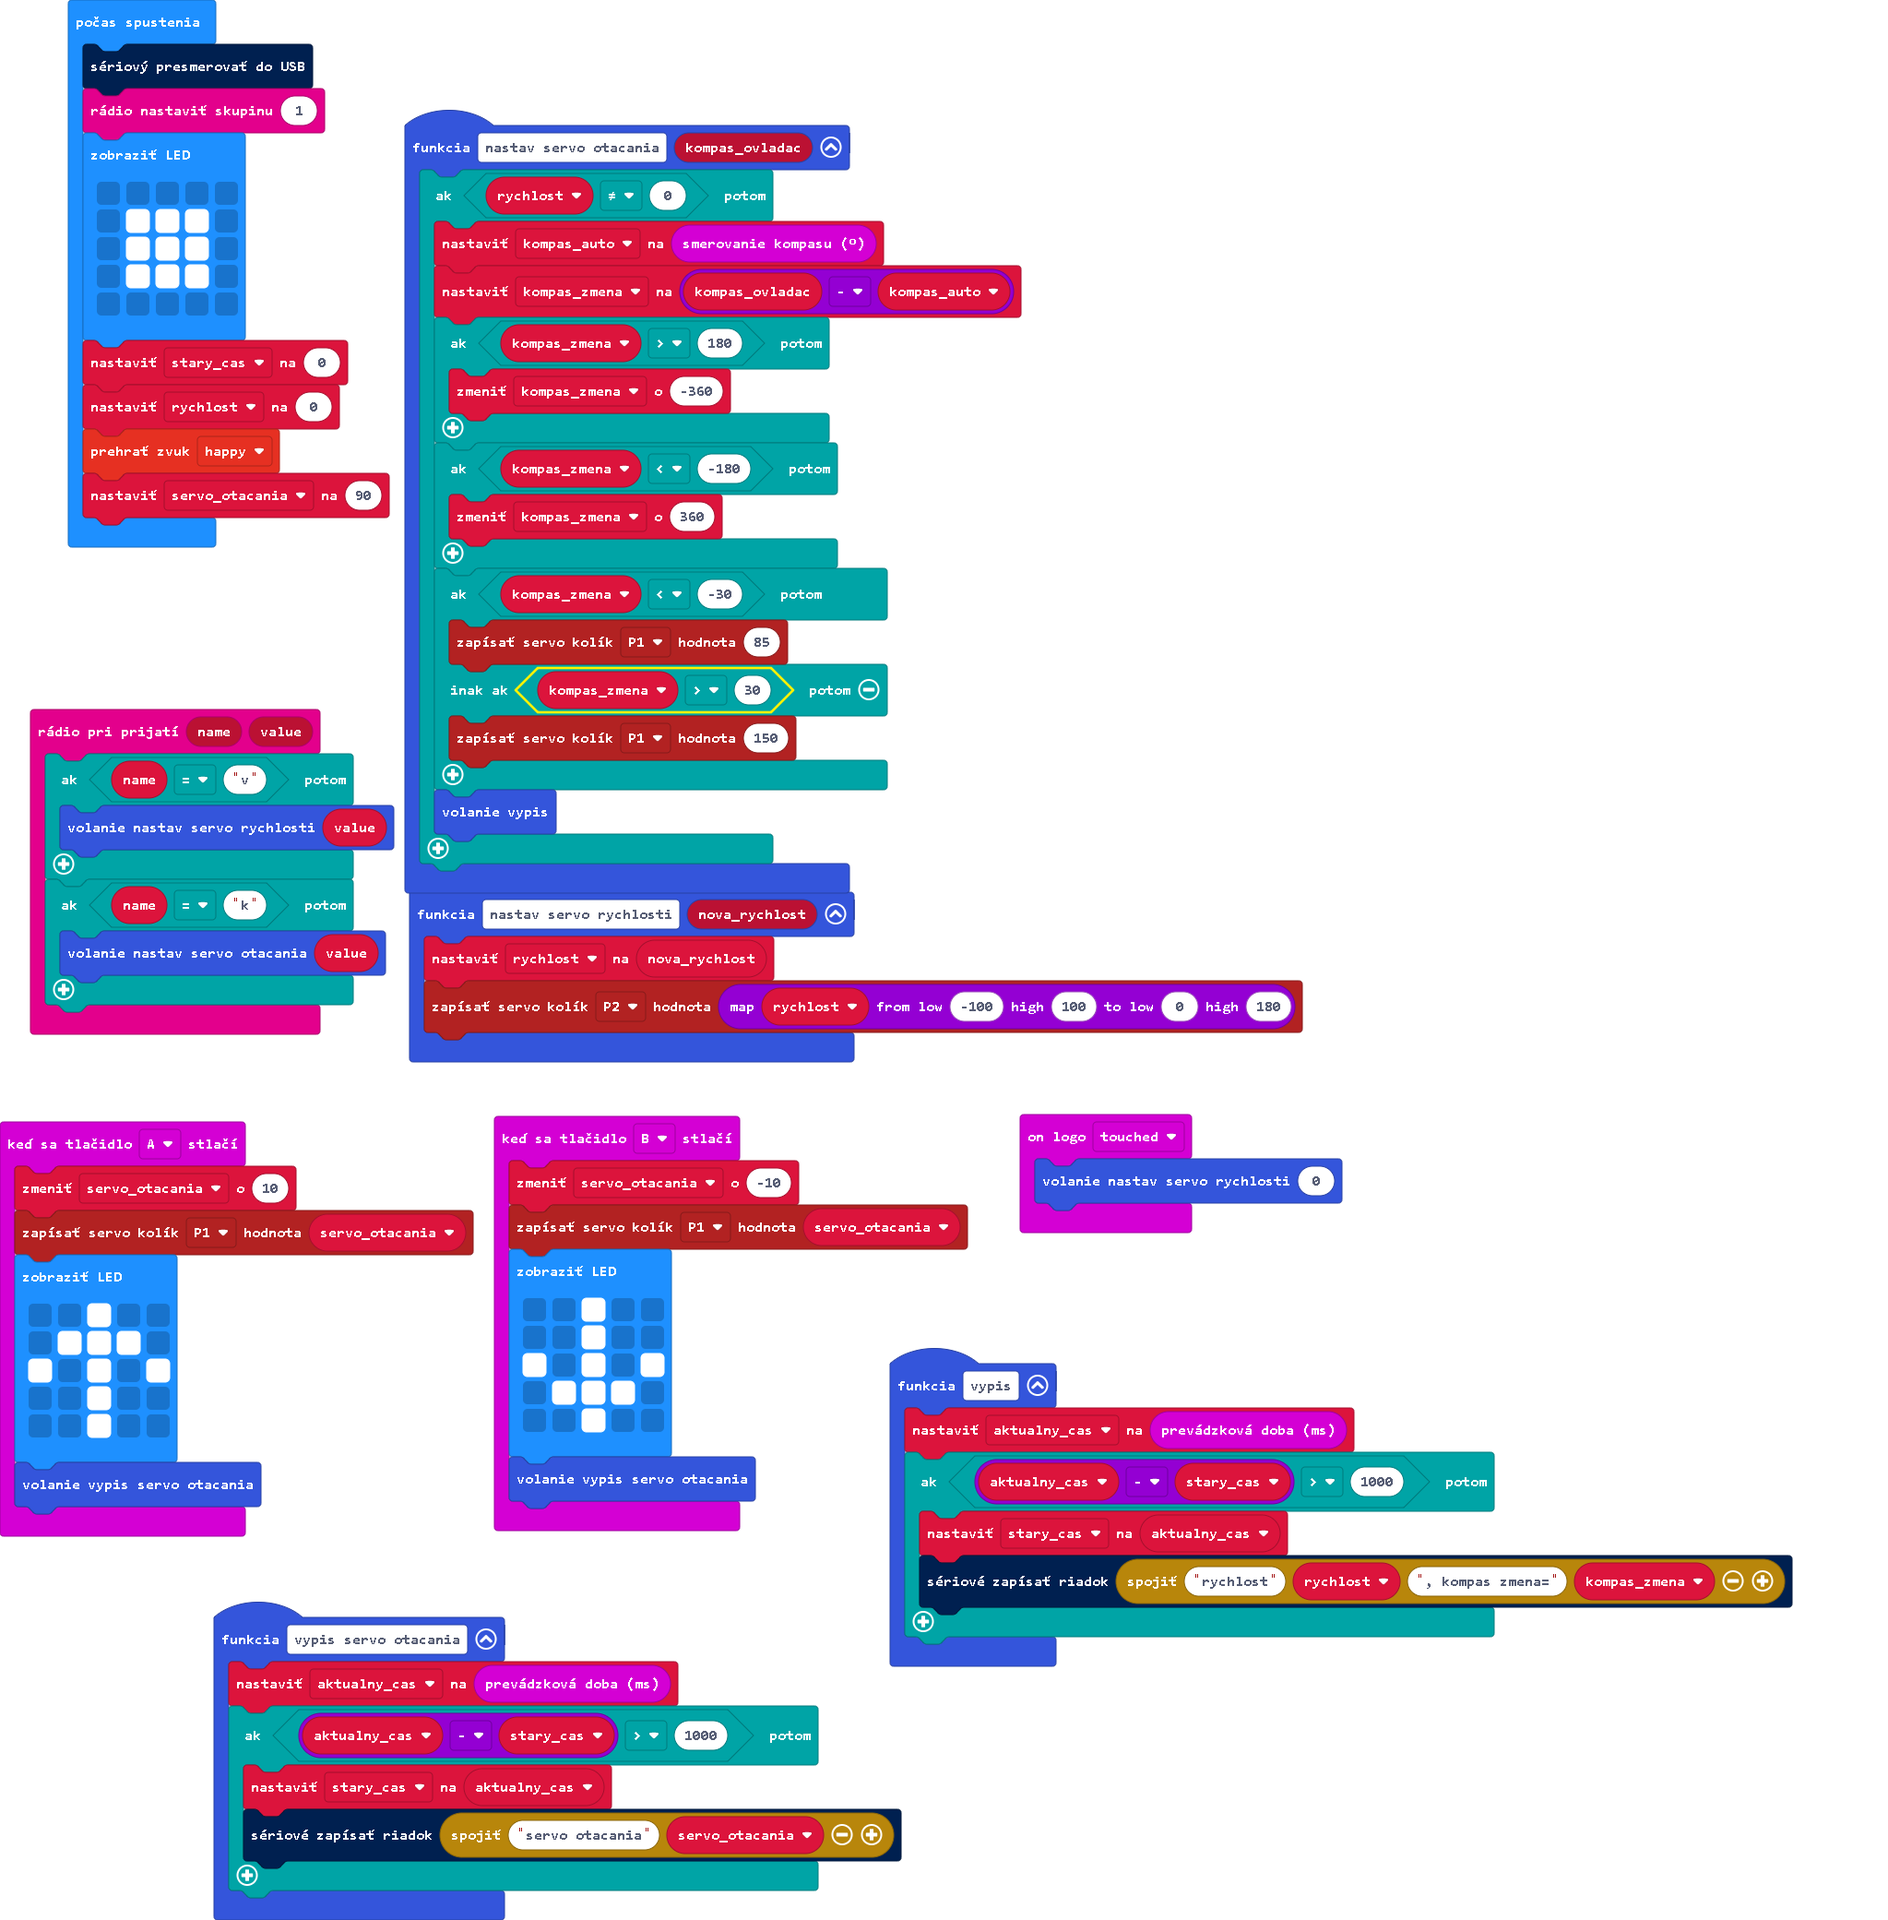
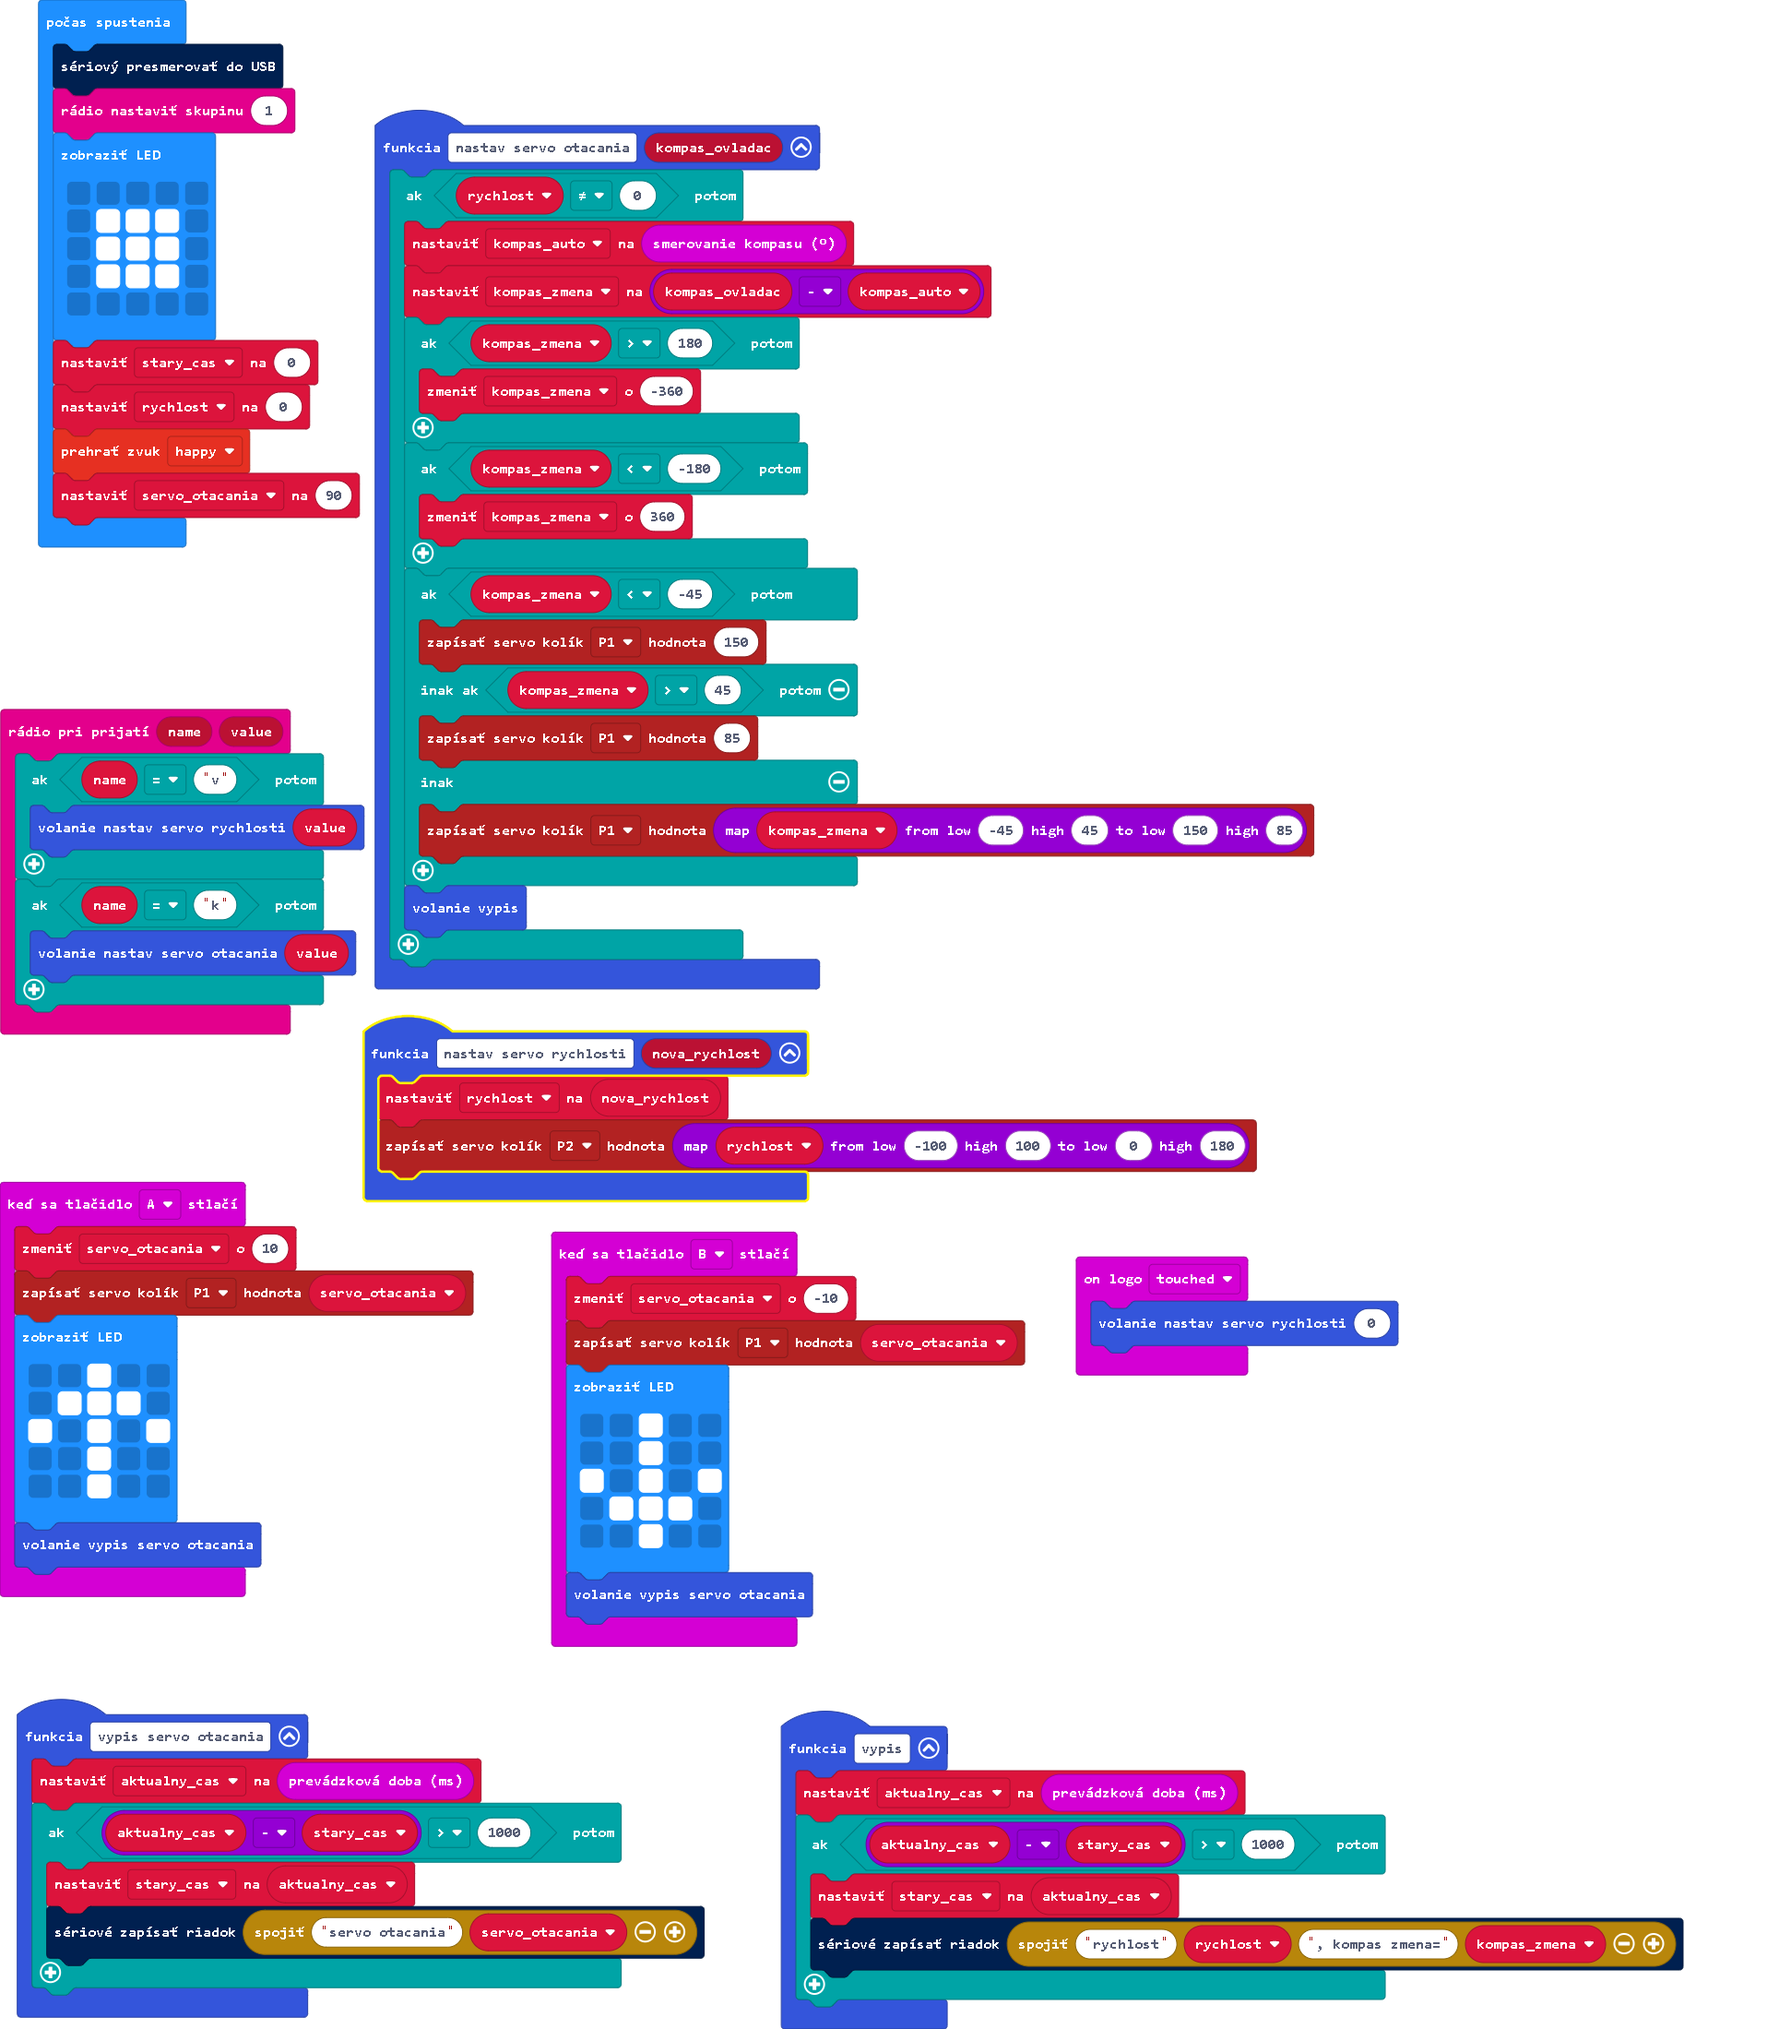
Aktualizovať main.blocks, main.ts

diff --git a/main.ts b/main.ts
@@ -61,10 +61,12 @@ function nastav_servo_otacania (kompas_ovladac: number) {
         if (kompas_zmena < -180) {
             kompas_zmena += 360
         }
-        if (kompas_zmena < -30) {
-            pins.servoWritePin(AnalogPin.P1, 85)
-        } else if (kompas_zmena > 30) {
+        if (kompas_zmena < -45) {
             pins.servoWritePin(AnalogPin.P1, 150)
+        } else if (kompas_zmena > 45) {
+            pins.servoWritePin(AnalogPin.P1, 85)
+        } else {
+            pins.servoWritePin(AnalogPin.P1, Math.map(kompas_zmena, -45, 45, 150, 85))
         }
         vypis()
     }
